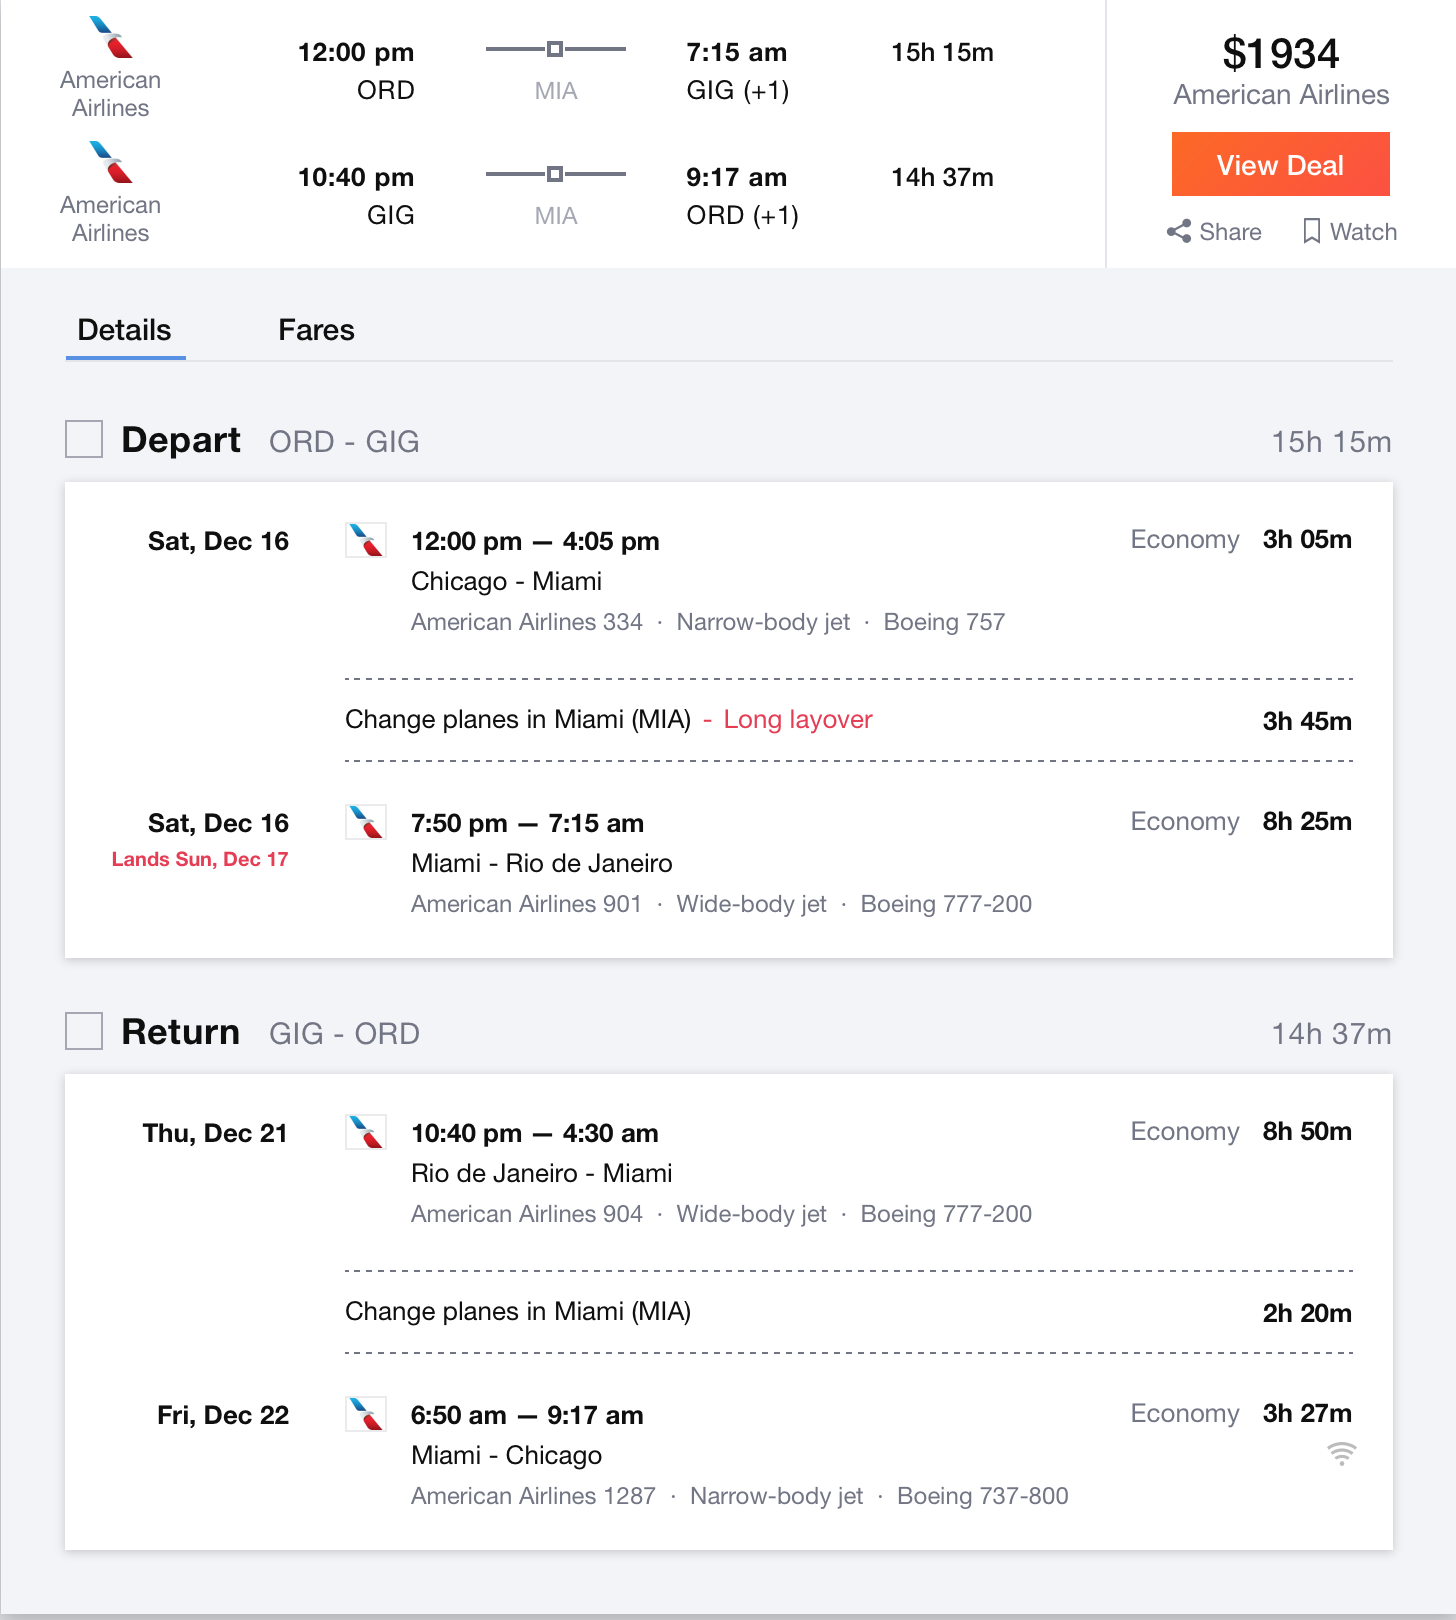
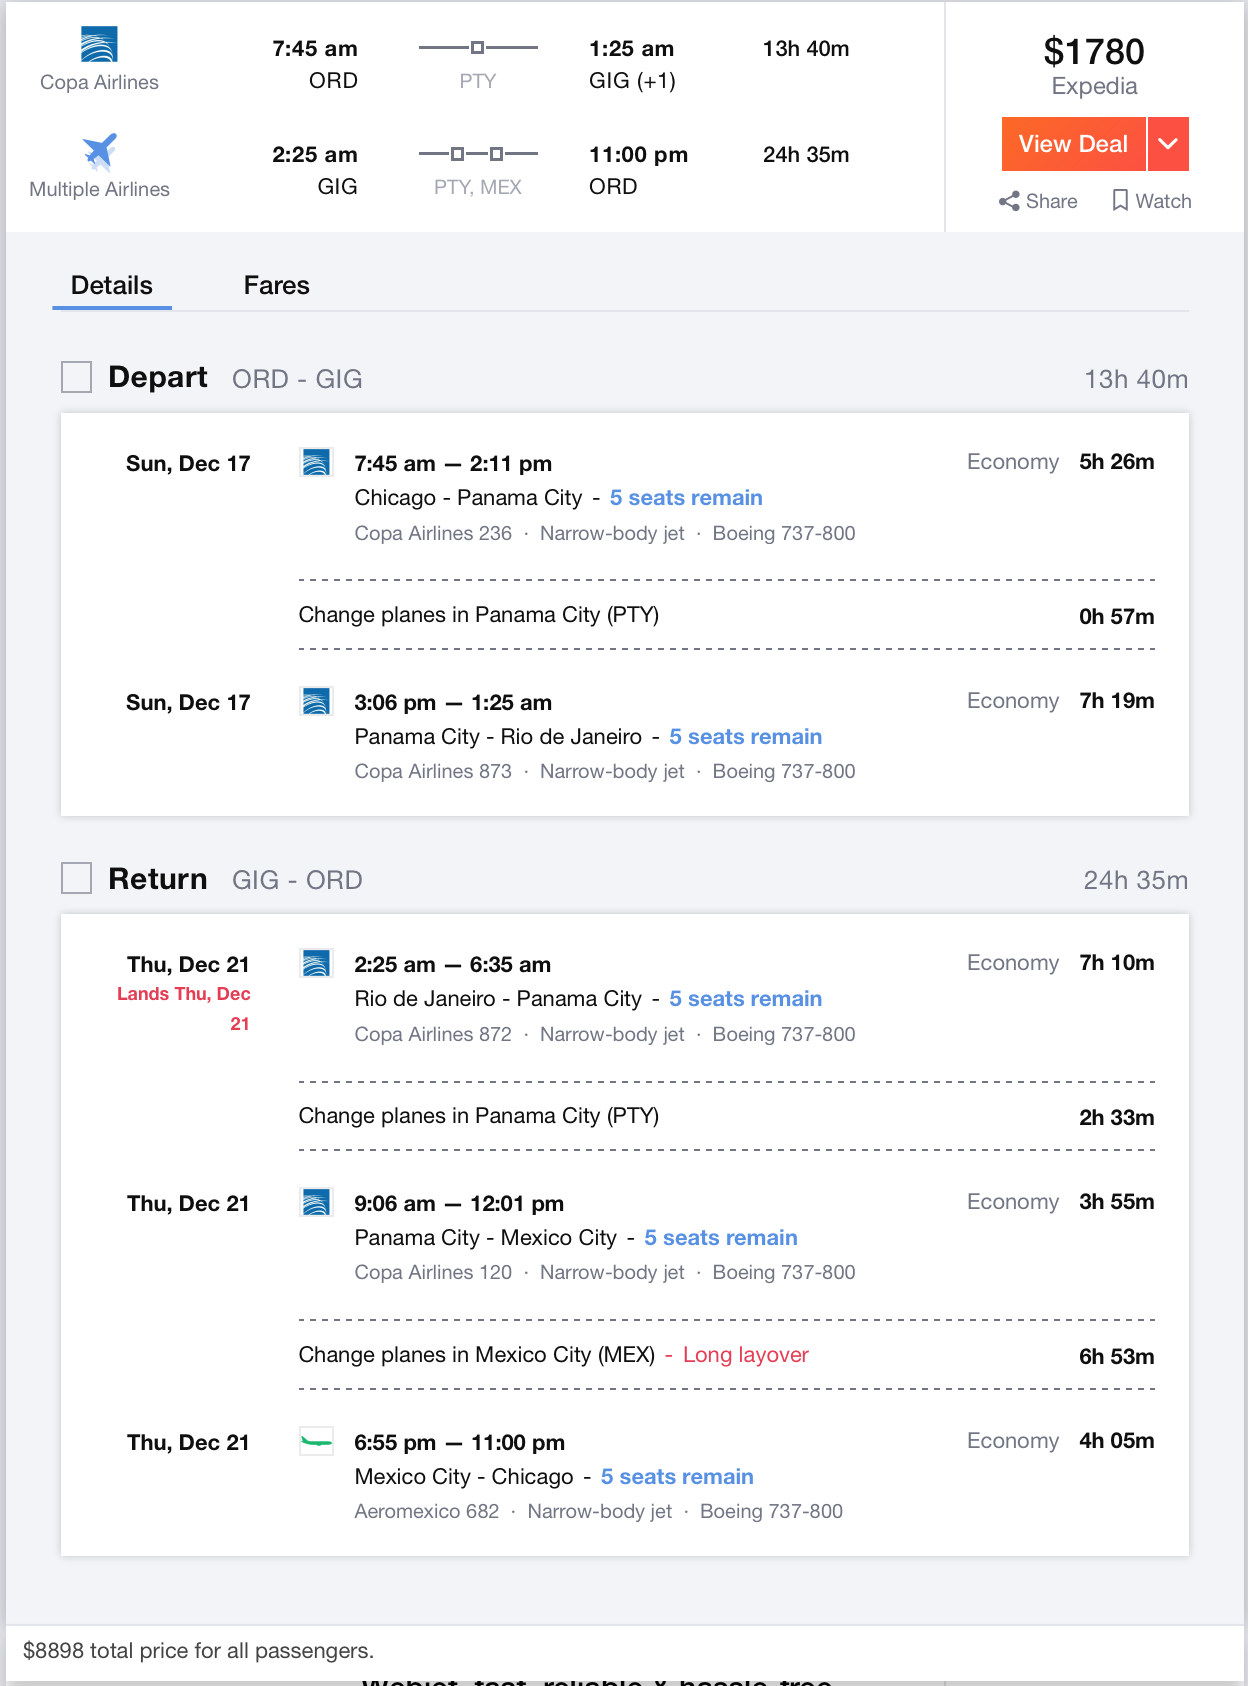
Update flight

diff --git a/flights.md b/flights.md
@@ -3,26 +3,24 @@
 ### Friday, December 15, 2017
 5PM: Pick up Enteprise rental car ($295.72)
 
-### Saturday, December 16, 2017
-3AM: Drive to O'Hare Airport from Columbia ($35.34)
+### Sunday, December 17, 2017
+12AM: Drive to O'Hare Airport from Columbia ($35.34)
 * 7 hour/400 mile drive
 * average price of gas in Illinois & Missouri = $2.356
 * tank size = 15 gallons
 * average mpg = 25mpg
 * one tank = 375 miles = $35.34
 
-12PM: Fly from Chicago to Rio de Janeiro ($967/person = $4835 total)
+7AM: Fly from Chicago to Rio de Janeiro ($1,780/person = $8,900 total)
 
 ### Thursday, December 21, 2017
-10PM: Fly from Rio de Janeiro to Chicago ($967/person = $4835 total)
+2AM: Fly from Rio de Janeiro to Chicago ($1,780/person = $8,900 total)
+11PM: Drive to Columbia from O'Hare Airport ($35.34)
 
-### Friday, December 22, 2017
-10AM: Drive to Columbia from O'Hare Airport ($35.34)
-
-# Total Cost of Transportation: $10,036.40
+# Total Cost of Transportation: $18,166.40
 
 *References:*
-Kayak Flights: https://www.kayak.com/flights/CHI-RIO/2017-12-16/2017-12-21/5adults?fs=landing=1217@0100,1217@0741|
+Kayak Flights: https://www.kayak.com/flights/CHI-RIO/2017-12-17/2017-12-21/5adults
 
 ![Flights](images/flight.png)
 ![Car Rental](images/car_rental.png)
